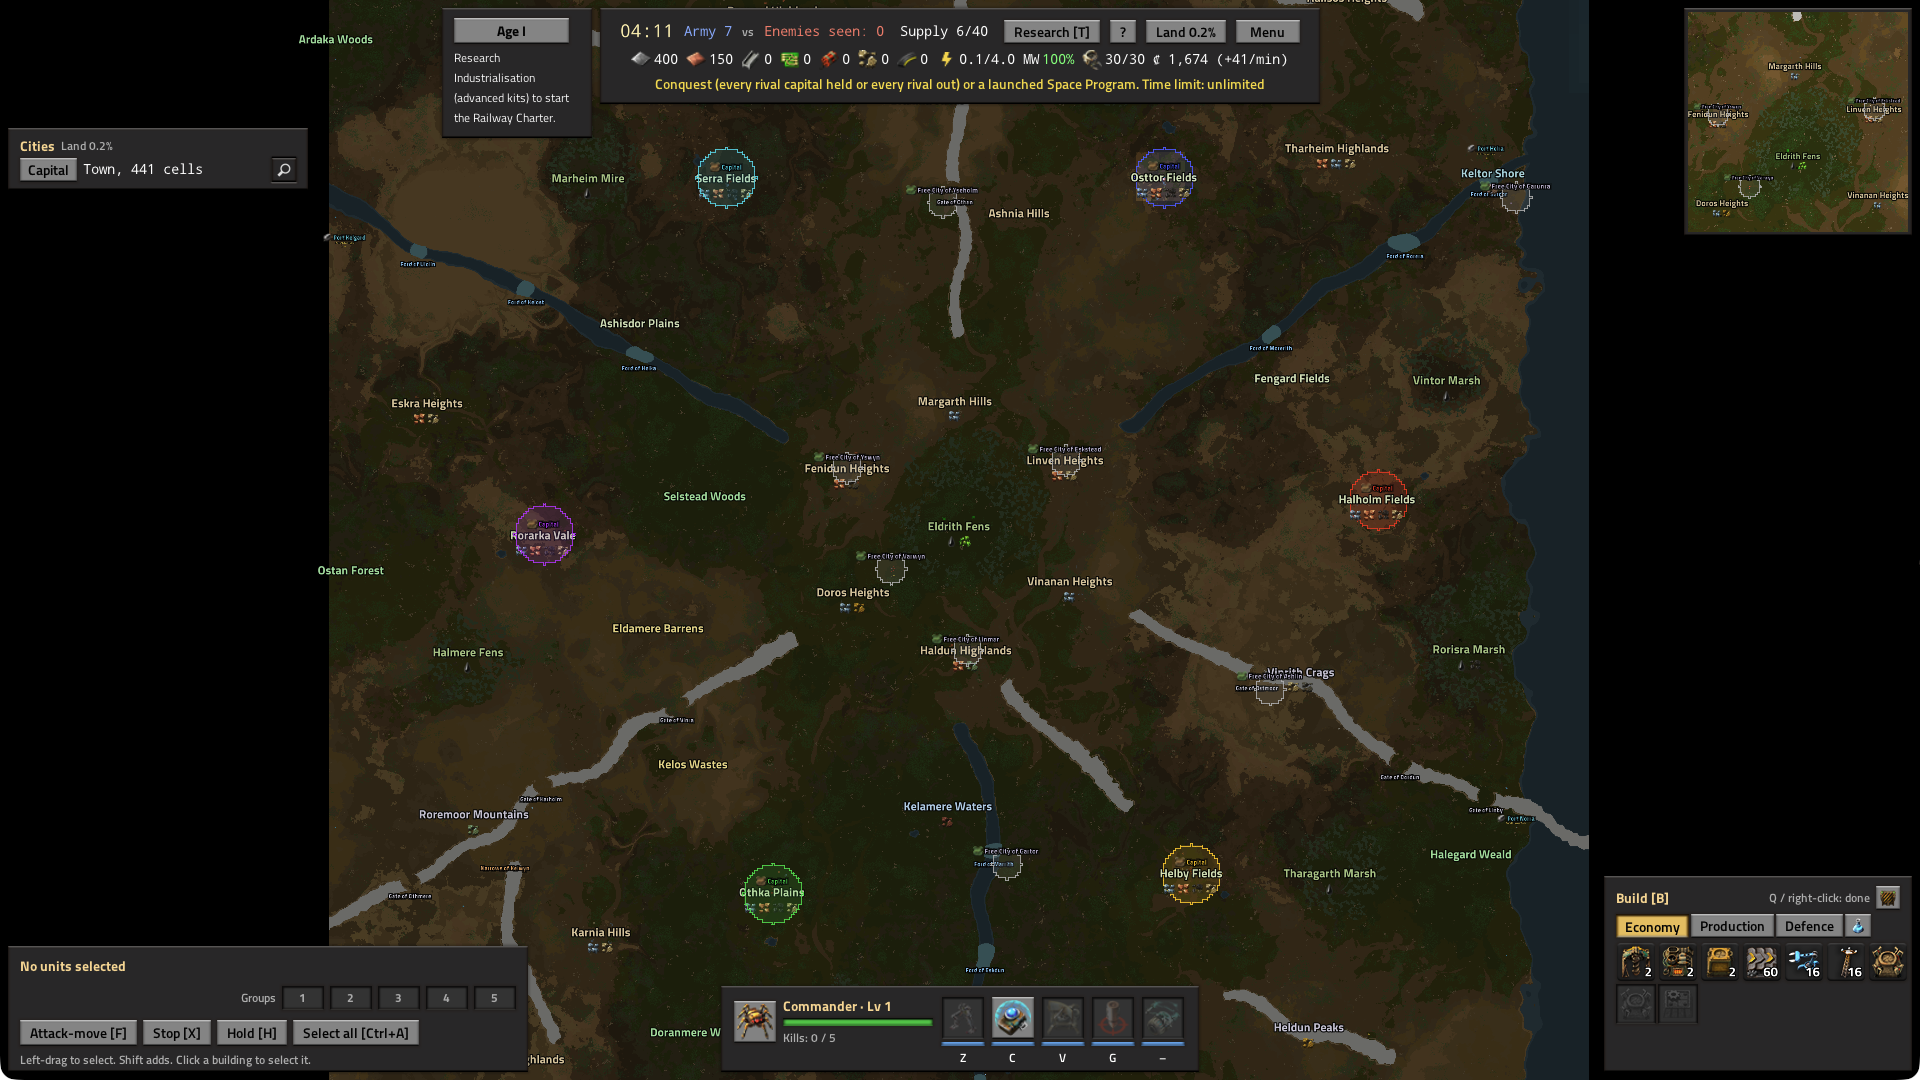
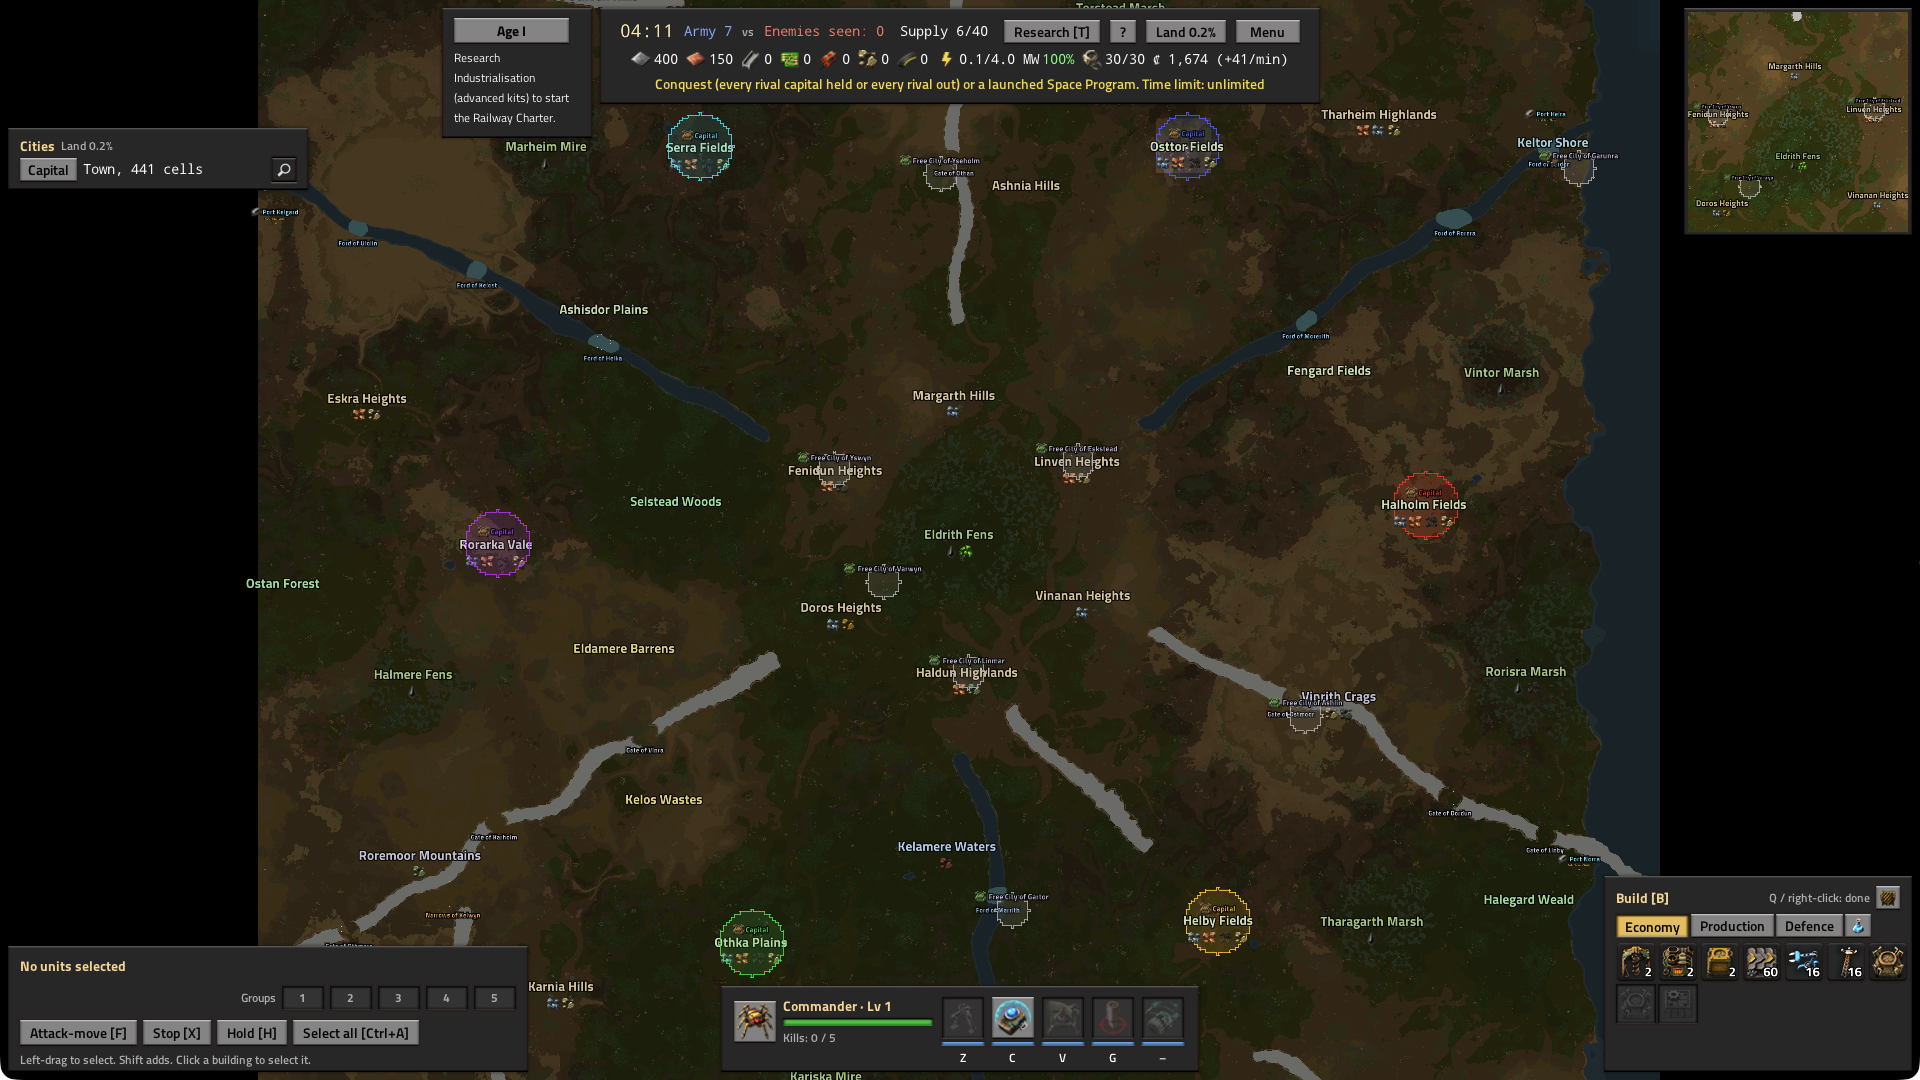
Showcase: 07 re-shot on a compact enemy village (train left third, village right third, zoom 0.65), 12 zoomed in 11 % with all six capitals in frame
07: the artillery scene founds its own AI 1 village (land radius 48) east of one of our cities, puts the depot 12 tiles
inside our land level with it, moves the train to the platform end nearest the village and frames the whole train and
the village in the HUD-free part of the screen; captured as the second shell bursts at the village's edge, Bombard on.
12: the zoom keeps every capital marker between the strip and the ability bar (+11 %); the launch also writes a
fill-the-width alternate to build/showcase/alt/. INDEX.md and REVIEW.md updated.

Claude-Session: https://claude.ai/code/session_01K1bJYSf3tQsD9Ls3EpVb2L

diff --git a/docs/media/INDEX.md b/docs/media/INDEX.md
@@ -17,12 +17,12 @@ bake`). Alternate takes land in `build/showcase/alt/`. `REVIEW.md` is the review
 | `04-division-battle.png` | A division of Walker Mk2s, heavies, armoured cars and artillery walkers (selected: its card with the stances, the unit cards) meets an AI 1 force: shell bursts, the kill feed | `nation`, `showcase_nation_scenes.lua`, scene `04-division-battle` |
 | `05-front-fort-belt.png` | Front 2 against an AI 1 town (the dashed border lines and the label "Front 2 · threat T · held by Division N"), the fort belt built along it (a wall with a gate where the rail crosses, turrets behind it) and the division holding the line behind the wall (its card: "Holding the line (front 2)") | `nation`, `showcase_nation_scenes.lua`, scene `05-front-fort-belt` |
 | `06-air.png` | The capital's airfield with scout planes, bombers and interceptors on patrol (selected), the AA turret firing at AI 1 bombers coming in from the right | `nation`, `showcase_nation_scenes.lua`, scene `06-air` |
-| `07-artillery-train.png` | An armoured artillery train in Bombard at a depot behind the front, a rail shell bursting in the AI 1 town across the border, the train panel ("Bombard [B]", "Shells: 19 · last target: Turret") | `nation`, `showcase_nation_scenes.lua`, scene `07-artillery-train` |
+| `07-artillery-train.png` | An armoured artillery train in Bombard (left third) at a depot 12 tiles behind a front, the dashed borders and the yellow front line crossing the frame, and a compact AI 1 village 46 tiles away (right third: its centre, houses, turrets, barracks, radar) with a rail shell bursting at its edge; the train panel ("Bombard [B]", "Shells: 18 · last target: Turret (37 tiles)") | `nation`, `showcase_nation_scenes.lua`, scene `07-artillery-train` |
 | `08-space-program.png` | The city ledger with the Space Program at stage 2/3 (the goods delivered so far, Rush, the automation row) next to the Launch complex and its progress label | `nation`, `showcase_nation_scenes.lua`, scene `08-space-program` |
 | `09-strategic-map.png` | The map view around the capital: region names, the capital and towns with their land, the AI 1 town across the front, a city-state, rail lines, depot labels and the division marker at the front | `nation`, `showcase_nation_scenes.lua`, scene `09-strategic-map` |
 | `10-diplomacy.png` | The diplomacy panel: AI 1 at war (score, weariness), AI 2 at peace, a city-state, our war and AI 1's peace offer with Accept and Decline (also as the offer bar above it) | `nation`, `showcase_nation_scenes.lua`, scene `10-diplomacy` |
 | `11-market.png` | The market: treasury, tax and flows, the commerce cap, prices with 10-minute sparklines, a city-state as the trade partner and an active steel contract with AI 2 | `nation`, `showcase_nation_scenes.lua`, scene `11-market` |
-| `12-world-4096.png` | A fully generated 6-nation 4096 world in the map view, all six capitals in frame: regions, rivers, mountain ranges with passes, fords, city-states and ports | `lobby`, `showcase_lobby.lua`, scene `12-world-4096` |
+| `12-world-4096.png` | A fully generated 6-nation 4096 world in the map view, all six capitals between the HUD bands: regions, rivers with fords, mountain ranges with passes, city-states and ports. The square world leaves dark bands left and right at the zoom that keeps every capital in frame; the launch also writes `build/showcase/alt/alt-12-world-4096-wide.png`, which fills the width with four capitals | `lobby`, `showcase_lobby.lua`, scene `12-world-4096` |
 | `13-commander-abilities.png` | Skirmish: the Commander (selected) casts Shield on the army around it and an Artillery strike lands in its target ring; the ability bar shows both cooldowns | `skirmish`, `tools/probes/showcase_skirmish.lua`, scene `13-commander-abilities` |
 | `14-skirmish-base.png` | Skirmish: the factory base built by the AI in 14 minutes, the natural hub (selected) with its stockpile policy (Export above 20) and an army block at the rally point | `skirmish`, `showcase_skirmish.lua`, scene `14-skirmish-base` |
 | `15-city-panel.png` | The capital's city panel (residents, happiness, needs, workforce, draft, make targets, Hire) and its stockpile policy panel | `nation`, `showcase_nation_scenes.lua`, scene `15-city-panel` |

diff --git a/docs/media/REVIEW.md b/docs/media/REVIEW.md
@@ -73,12 +73,12 @@ current files are listed in `INDEX.md`.
 | 04 battle | Two lines facing each other, heavies spread, armoured cars on both flanks, artillery behind; camera lower; the division selected (its card and stances on the HUD) | – |
 | 05 front | The front town is a tier-2 town (an 80-tile front instead of 41); the wall stands 1 tile behind the border, the division 11 tiles behind it; the artillery train is disbanded before this shot; zoom +60 %, the front in the right third | An approaching enemy group (it would end the hold) |
 | 06 air | The enemy flight spawns 17 tiles out and is caught inside 12; zoom 1.6; the airfield fully in frame; own planes selected; interceptors added | – |
-| 07 artillery | The depot moved 8 tiles nearer the front; a compact town (turrets, houses, barracks, farm, radar within 15 tiles of its centre); captured as the second shell bursts with the next one in the air | The rail cannot be laid closer to the town: the town's land starts at the border |
+| 07 artillery | Second reshoot (lead): the scene founds its own compact AI 1 village (land radius 48) east of one of our cities, the depot stands 12 tiles inside our land level with it, the train moves to the platform end nearest the village; the frame fits the whole train and the village (train left third, village right third, zoom 0.65 instead of 0.47), captured as the second shell bursts at the village's edge with the next one in the air, Bombard and the train panel on | – |
 | 08 space | Zoom +20 %, the complex beside the ledger | – |
 | 09 map | Zoom +45 %, centred between the capital and the front town; the engine's construction alert icons and the haulers' long autopilot lines (drawn by the engine from every hauler to its next stop) are hidden for the capture | Label sizes are the mod's |
 | 10 diplomacy | Every stale alert line removed before the capture (the offer bar stays) | – |
 | 11 market | Ended contracts of the baked match removed; an active steel contract with AI 2 | – |
-| 12 world | All six capitals in frame between the HUD bands (the map view's zoom limit is widened for this capture only) | – |
+| 12 world | All six capitals in frame between the HUD bands (the map view's zoom limit is widened for this capture only); second pass (lead): zoom +11 %, the most that keeps every capital marker between the strip and the ability bar | Filling the 16:9 width: the square world needs +53 % for that, and then only two capitals stay whole (alternate take in build/showcase/alt/) |
 | 13 Commander | Only the Commander selected; parked units disbanded so supply is at or under the cap (80/80, was 111/80); captured as the strike lands | – |
 | 14 Skirmish base | The base's bounding box framed left of the hub policy panel; raid damage repaired; a 12-unit block at the rally point; the natural hub selected | – |
 | 15 city | The city left of the two panels | – |
